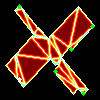
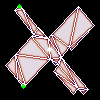
colors

Changed region(s): [[0.06, 0.06, 0.96, 0.96]]

diff --git a/frontierml/server/2.py b/frontierml/server/2.py
@@ -274,7 +274,7 @@ def analyze():
         # Create visualization
         heatmap = np.zeros((IMAGE_SIZE, IMAGE_SIZE, 3), dtype=np.uint8)
         coverage_vis = (combined_coverage * 255).astype(np.uint8)
-        heatmap = cv2.applyColorMap(coverage_vis, cv2.COLORMAP_JET)
+        heatmap = cv2.applyColorMap(coverage_vis, cv2.COLORMAP_TWILIGHT)
 
         # Mark boundaries
         heatmap[interior == 0] = [0, 0, 0]    # Black outside
